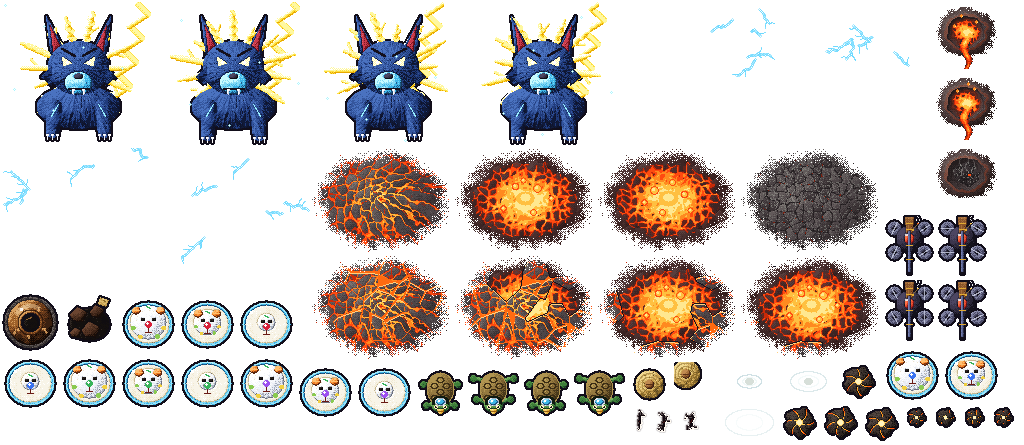
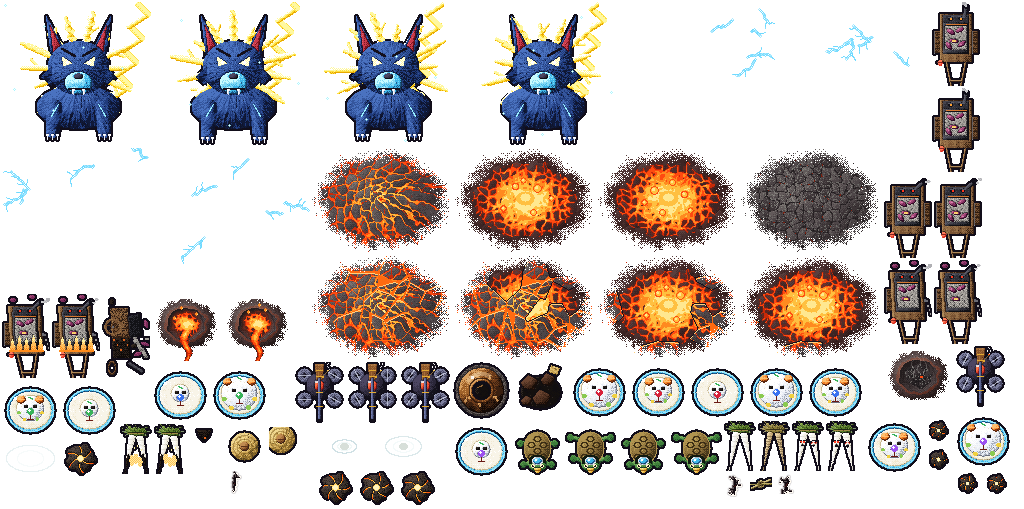
Stronger waves, steps 2-5 for Kagoshima: into the game, the imo cart in place of the vinegar jars (accepted). The designs in Kagoshima's atlas, its skin (a hemp line, the fresh pair and the dried one in turn; chain.cross: the ash carries the fire to a line hung close by, 16 px instead of 9). 2 bambo

diff --git a/src/game/enemies/chainSplitCart.js b/src/game/enemies/chainSplitCart.js
@@ -11,8 +11,9 @@
 //           (it limps), the roof on fire; its wreck stays on the street, and it leaves a power-up behind.
 // Their looks are a skin's `chain`, `split` and `cart` (skins.js); their tuning CHAIN, SPLIT, CART (config.js). A look may
 // change the colours and sounds: chain { rope, char, light, text }, split { sound }, cart { debris, light }; a rope may
-// hang several things in turn (chain.frames, as Nagasaki's signal flags). A cart's
-// look may have a beast pulling it that is no yokai (cart.runner): when the cart goes down it breaks free and runs off.
+// hang several things in turn (chain.frames, as Nagasaki's signal flags) and carry its fire further, to a line hung
+// close by (chain.cross: Kagoshima's ash). A cart's look may have a beast pulling it that is no yokai (cart.runner):
+// when the cart goes down it breaks free and runs off.
 import { CART, CHAIN, DEPTH, SPLIT, SPLIT_ONE, VIEW } from '../../config.js';
 import { volley } from '../../difficulty.js';
 import { slow, DOWN, TAU, EXTRAS } from './shared.js';
@@ -112,7 +113,7 @@ export const chainSplitCart = {
       if (l.type !== 'chain' || l.dead) continue;
       if (l.rope === rope && Math.abs(l.slot - e.slot) === 1) lit(l, CHAIN.step);
     }
-    for (const l of catching(this.pool.live.filter((o) => o.type === 'chain'), e, CHAIN.cross)) lit(l, CHAIN.step * 2);
+    for (const l of catching(this.pool.live.filter((o) => o.type === 'chain'), e, rope.look?.cross ?? CHAIN.cross)) lit(l, CHAIN.step * 2);
   },
 
   /** The ropes, drawn every frame between their poles through the lanterns (charred where one burnt). */

diff --git a/src/game/enemyArt.js b/src/game/enemyArt.js
@@ -153,7 +153,7 @@ export const CITY_ANIMS = {
   ng_manju: [four('ng_manju'), 4], ng_manju_one: [['ng_manju_one_0', 'ng_manju_one_1'], 6],
   k_iga: [four('k_iga'), 4], k_iga_one: [['k_iga_one_0', 'k_iga_one_1'], 6],
   sp_jaga: [four('sp_jaga'), 4], sp_jaga_one: [['sp_jaga_one_0', 'sp_jaga_one_1'], 6],
-  ...Object.fromEntries([0, 1, 2, 3].flatMap((st) => [[`o_ferry_${st}`, [[`o_ferry_${st}_0`, `o_ferry_${st}_1`], 4]], [`ky_hoko_${st}`, [[`ky_hoko_${st}_0`, `ky_hoko_${st}_1`], 6]], [`ok_gyu_${st}`, [[`ok_gyu_${st}_0`, `ok_gyu_${st}_1`], 3]], [`ng_kujira_${st}`, [[`ng_kujira_${st}_0`, `ng_kujira_${st}_1`], 5]], [`k_hakucho_${st}`, [[`k_hakucho_${st}_0`, `k_hakucho_${st}_1`], 4]]])),
+  ...Object.fromEntries([0, 1, 2, 3].flatMap((st) => [[`o_ferry_${st}`, [[`o_ferry_${st}_0`, `o_ferry_${st}_1`], 4]], [`ky_hoko_${st}`, [[`ky_hoko_${st}_0`, `ky_hoko_${st}_1`], 6]], [`ok_gyu_${st}`, [[`ok_gyu_${st}_0`, `ok_gyu_${st}_1`], 3]], [`ng_kujira_${st}`, [[`ng_kujira_${st}_0`, `ng_kujira_${st}_1`], 5]], [`k_hakucho_${st}`, [[`k_hakucho_${st}_0`, `k_hakucho_${st}_1`], 4]], [`kg_imo_${st}`, [[`kg_imo_${st}_0`, `kg_imo_${st}_1`], 4]]])),
   // Fukuoka
   f_tobiume: [four('f_tobiume'), 12], f_goma: [four('f_goma'), 16], f_fugu: [four('f_fugu'), 3],
   f_mentaiko: [four('f_mentaiko'), 5], f_mentaiko_one: [['f_mentaiko_one_0', 'f_mentaiko_one_1'], 6],

diff --git a/src/game/skins.js b/src/game/skins.js
@@ -78,6 +78,8 @@ export const SKINS = {
     carrier: { frame: 'shirokuma_{c}_0', melt: 5.5 },
     heavy: { frame: 'raiju_0', anim: 'raiju', kind: 'raiju' },
     turret: { base: 'tsubo_base', head: 'tsubo_lid_', wreck: 'tsubo_wreck', lid: true },
+    chain: { frame: 'kg_daikon_0', frames: ['kg_daikon_0', 'kg_daikon_1'], eye: 'kg_daikon_eye_', lit: 'kg_daikon_lit_', burnt: 'kg_daikon_burnt', pole: 'kg_pole', rope: 0x8a7a3a, cross: 16 }, // daikon drying on a bamboo rack by Sakurajima's fields; the ash carries the fire to the next line (enemies/chainSplitCart.js)
+    cart: { anim: 'kg_imo_', wreck: 'kg_imo_wreck', debris: 0x7a5434, light: 0xff8a30 }, // an ishi-yaki imo cart rolling down a street of Tenmonkan
   },
   // Osaka: every regular enemy comes as a manzai duo (see Enemies.duoDown)
   osaka: {

diff --git a/src/game/enemies/kagoshima.js b/src/game/enemies/kagoshima.js
@@ -112,7 +112,8 @@ export const kagoshima = {
     }
     e.fight += dt;
     if (e.dash) return this.raijuDash(e, dt, b);
-    if (e.fight > 45) {
+    // (it flies off before the daikon racks over Sakurajima's road come: stage4.json, 142 s)
+    if (e.fight > 36) {
       e.state = 'leave';
       return;
     }

diff --git a/docs/plan-silniejsze-fale.md b/docs/plan-silniejsze-fale.md
@@ -173,3 +173,4 @@ Bot nie zestrzeliwuje ich częściej, tylko odlatują z mniejszym zapasem: walki
 | 2026-11-19 | Claude | 1 (Sapporo) | Projekty grafiki do akceptacji, `tools/art/sapporo/newfoes.mjs`: solone łososie (shiozake) powieszone za ogony na linie nad aleją przy targu Nijō, między słupkami z czapami śniegu; na zmianę jeden owinięty słomianym sznurem (aramaki) i jeden rozpłatany, z czerwonym mięsem rozpartym bambusowym patyczkiem; obudzony otwiera oko i rozdziawia zakrzywioną szczękę (strzela); wędzący się i płonący, zostaje zwęglony ogon na sznurku. Zamiast bałwana (Sapporo ma już bałwana jako działko) propozycja pary: jaga-bata ze straganów festiwalu śniegu, ziemniak w folii nacięty na krzyż, kostka masła topiąca się w nacięciach, łyżka shiokary z kałamarnicy obok, para w mrozie; po trafieniu rozpada się na dwie połówki, z których kapie masło. Jeszcze nie w atlasie ani w grze. | Para do decyzji: jaga-bata zamiast bałwana. |
 | 2026-11-19 | Claude | 2-5 (Sapporo) | Przyjęte: łososie i jaga-bata zamiast bałwana. Grafika w atlasie `bg/stage3`, skórka (słomiany sznur, łososie na zmianę owinięty i rozpłatany; bez wozu: Sapporo ma pługi). 2 liny z łososiami przy targu Nijō: nad aleją x 150 (75,2 s) i nad aleją x 90 (77,2 s), słupki na dachu hali targu i po drugiej stronie alei. 20 jaga-bat w miejscu fal popcornu, w całym mieście, 7 nad festiwalem śniegu w Ōdōri. Popcorn 72% → 45%. Bot (4 bronie, moc 4), trafienia przed bossem na przelot: normalny 13,3 → 11 (4 przeloty), łatwy 7,0 → 8,9 (11 przelotów; najwięcej przybyło w Ōdōri). Liny i jaga-baty zestrzelone prawie za każdym razem (1 połówka uciekła w 8 przelotach). Test: sapporoWaves. | Łatwy trochę trudniejszy, jak na Okinawie i w Nagasaki. |
 | 2026-11-19 | Claude | 1 (Kagoshima) | Projekty grafiki do akceptacji, `tools/art/kagoshima/newfoes.mjs`: hoshi-daikon, rzodkwie suszone parami okrakiem na linkach bambusowego rusztowania (daikon yagura) nad drogą Sakurajimy przy polach; na zmianę para jeszcze biała i pękata i para pomarszczona, płowa, przyprószona popiołem z wulkanu; budząca się otwiera czerwone oczy i rozdziawia usta (strzela); płonąca, zostaje zwęglony węzeł liści. Zamiast wozu z dzbanami czarnego octu (dzban octu to już działko Kagoshimy) propozycja: wózek ishi-yaki imo, bataty (satsuma-imo) pieczone na kamieniach, toczący się sam ulicą Tenmonkanu: dwukołowy wózek, dyszle bez nikogo, żelazny piec z odsuniętą pokrywą (kamienie, bataty w fioletowej skórce), dwa otwory pokrywy łypią, szpara się szczerzy, z rury dym, czerwony lampion; rozpad: rura przekrzywiona i bucha (czerwone oczy), urwane koło, bataty się wysypują, wózek płonie; wrak przewrócony na bok, kamienie i zwęglone bataty na ulicy. Jeszcze nie w atlasie ani w grze. | Wóz do decyzji: wózek z batatami zamiast dzbanów octu. |
+| 2026-11-19 | Claude | 2-5 (Kagoshima) | Przyjęte: rzodkwie i wózek z batatami zamiast dzbanów octu. Grafika w atlasie `bg/stage4`, skórka (konopna linka, para świeża i suszona na zmianę; `chain.cross`: popiół niesie ogień na linkę zawieszoną blisko, 16 px zamiast 9). 2 bambusowe rusztowania po 2 linki rzodkwi nad drogą Sakurajimy przy polach z rzodkwią (142 i 142,4 s, 148,6 i 149 s; słupki w polu i za drogą); zapalona linka zapala drugą linkę tego samego rusztowania. Wózek z batatami w 15 s ulicą x 150 w Tenmonkanie. Bez pary. Popcorn 74% → 68%: bez pary (zgodnie z D4) do 45% nie da się zejść, a bomby i tak pękają na dwie połówki. Raijū odlatuje po 36 s walki zamiast 45 (inaczej jego najdłuższe walki wpadałyby na rusztowania; pól z rzodkwią nie da się przesunąć). Bot (4 bronie, moc 4), trafienia przed bossem na przelot: normalny 6,8 → 4,8, łatwy 0,8 → 1,5 (w granicach rozrzutu); linki zestrzelone zawsze, wózek 7 razy na 8. Test: kagoshimaWaves. | Do decyzji: czy zbić popcorn bardziej (więcej rusztowań lub wózków). |
